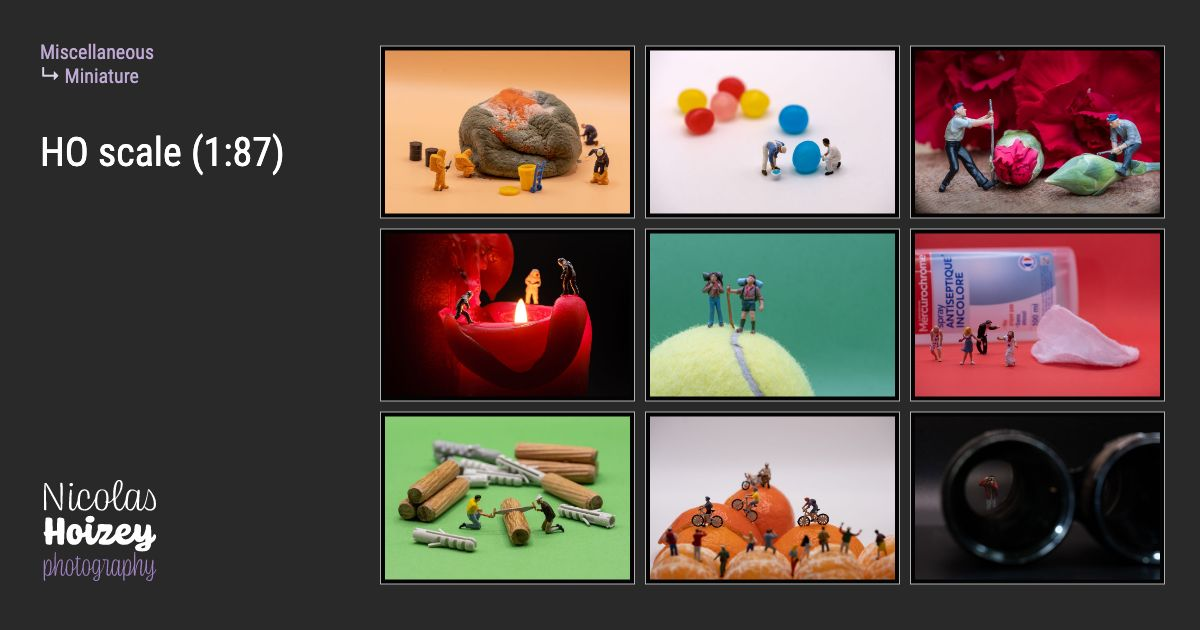
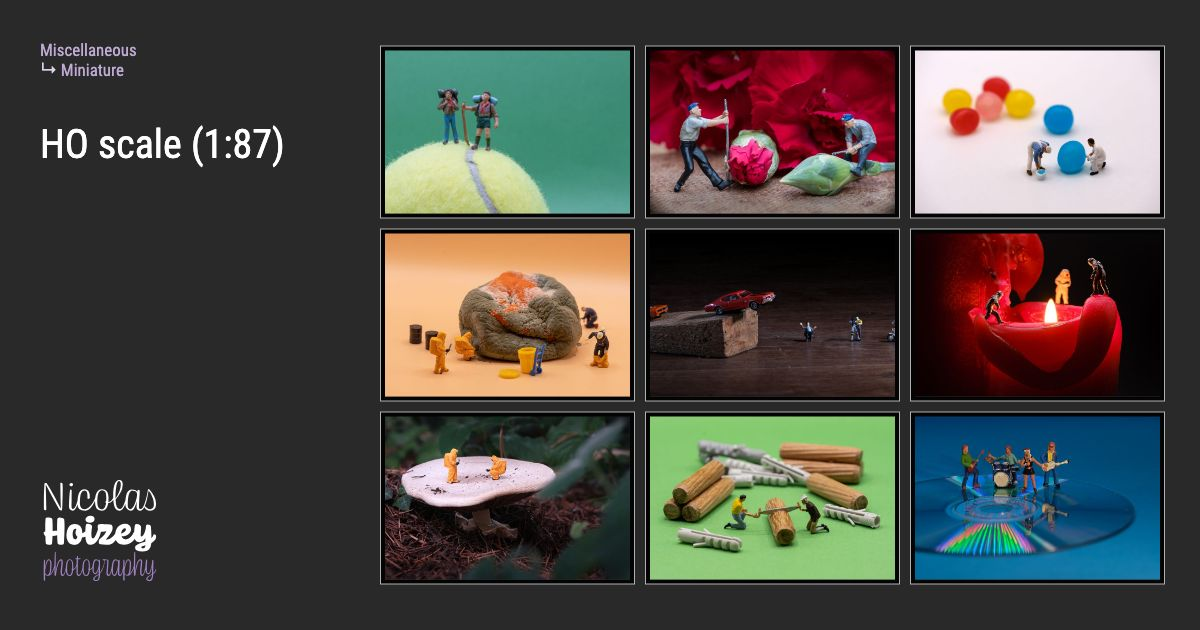
New photos

diff --git a/src/galleries/misc/miniature/ho-scale-1-87/the-great-cinemascope-car-chase.md b/src/galleries/misc/miniature/ho-scale-1-87/the-great-cinemascope-car-chase.md
@@ -1,0 +1,4 @@
+---
+date: 2024-04-08 12:42:17 +02:00
+featured: true
+---

diff --git a/src/galleries/misc/miniature/ho-scale-1-87/cds-are-cool-again.md b/src/galleries/misc/miniature/ho-scale-1-87/cds-are-cool-again.md
@@ -1,0 +1,3 @@
+---
+date: 2024-04-08 12:42:18 +02:00
+---
